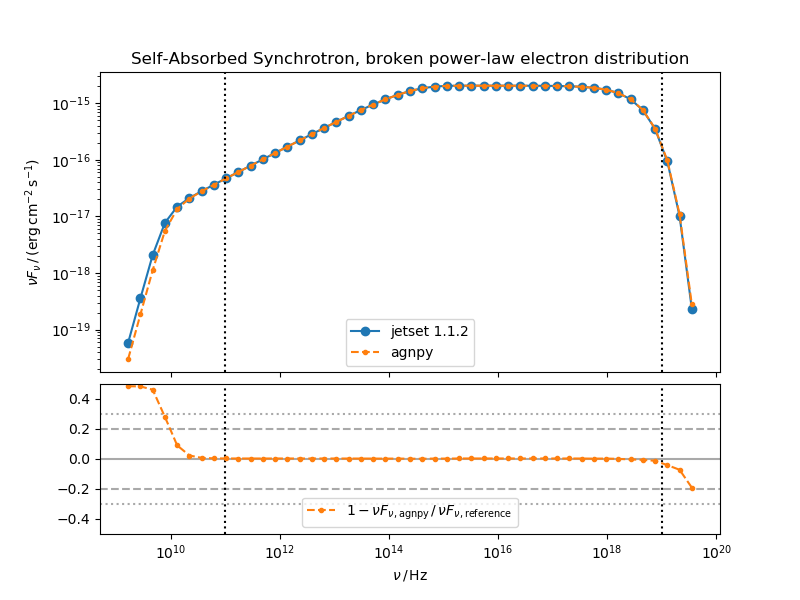
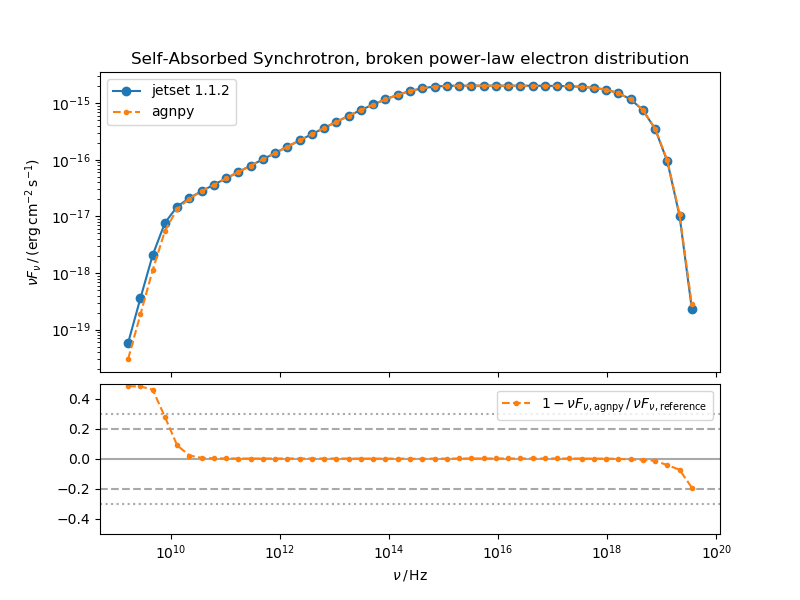
removed vertical lines from comparison plots

diff --git a/agnpy/tests/utils.py b/agnpy/tests/utils.py
@@ -52,8 +52,7 @@ def make_comparison_plot(
     comp_label,
     fig_title,
     fig_path,
-    plot_type,
-    nu_range=None,
+    plot_type
 ):
     """make a comparison plot, for SED or gamma-gamma absorption 
     between two different sources: a reference (literature or another code)
@@ -78,8 +77,6 @@ def make_comparison_plot(
         path to save the figure
     plot_type : `{"sed", "tau"}`
         whether we are doing a comparison plot for a SED or an optical depth 
-    nu_range : `list` of :class:`~astropy.units.Quantity`
-        extremes of the range over which we are performing the comparison
     """
     if plot_type == "sed":
         x_label = SED_X_LABEL
@@ -104,10 +101,6 @@ def make_comparison_plot(
     ax[0].legend(loc="best")
     ax[0].set_ylabel(y_label)
     ax[0].set_title(fig_title)
-    # plot the range within which we are comparing
-    if nu_range is not None:
-        ax[0].axvline(nu_range[0].to_value("Hz"), ls=":", color="k")
-        ax[0].axvline(nu_range[1].to_value("Hz"), ls=":", color="k")
     # plot the deviation in the bottom panel
     deviation = 1 - y_comp / y_ref
     ax[1].axhline(0, ls="-", color="darkgray")
@@ -116,10 +109,6 @@ def make_comparison_plot(
     ax[1].axhline(0.3, ls=":", color="darkgray")
     ax[1].axhline(-0.3, ls=":", color="darkgray")
     ax[1].set_ylim([-0.5, 0.5])
-    # plot the range within which we are comparing
-    if nu_range is not None:
-        ax[1].axvline(nu_range[0].to_value("Hz"), ls=":", color="k")
-        ax[1].axvline(nu_range[1].to_value("Hz"), ls=":", color="k")
     ax[1].semilogx(
         nu, deviation, marker=".", ls="--", color="C1", lw=1.5, label=deviation_label
     )

diff --git a/agnpy/tests/test_synchrotron.py b/agnpy/tests/test_synchrotron.py
@@ -127,10 +127,6 @@ class TestSynchrotron:
         ssa = Synchrotron(blob, ssa=True)
         sed_agnpy = ssa.sed_flux(nu_ref)
         # sed comparison plot
-        # requires that the SED points deviate less than 5% from the figure
-        # there are divergencies at very low and very high energies, therefore
-        # we will check between 10^(11) and 10^(19) Hz
-        nu_range = [1e11, 1e19] * u.Hz
         make_comparison_plot(
             nu_ref,
             sed_ref,
@@ -140,8 +136,11 @@ class TestSynchrotron:
             figure_title,
             figure_path,
             "sed",
-            nu_range,
         )
+        # requires that the SED points deviate less than 5% from the figure
+        # there are divergencies at very low and very high energies, therefore
+        # we will check between 10^(11) and 10^(19) Hz
+        nu_range = [1e11, 1e19] * u.Hz
         assert check_deviation_within_bounds(
             nu_ref, sed_ref, sed_agnpy, 0, 0.05, nu_range
         )
